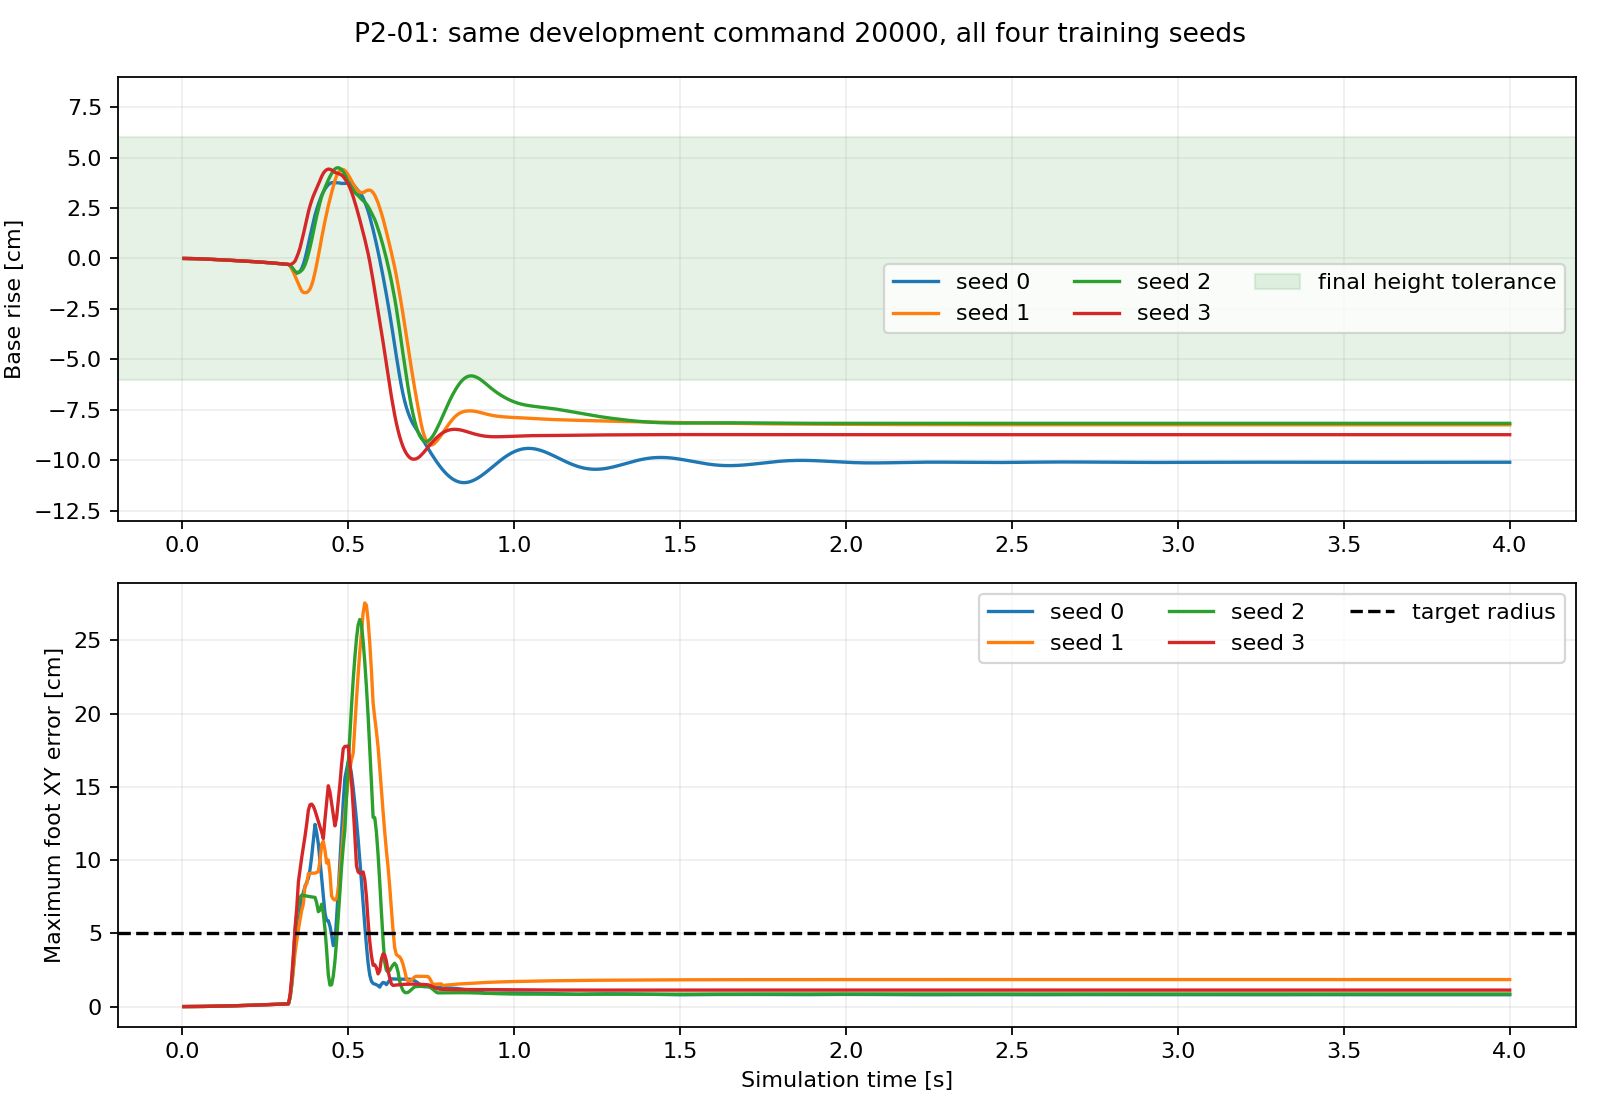
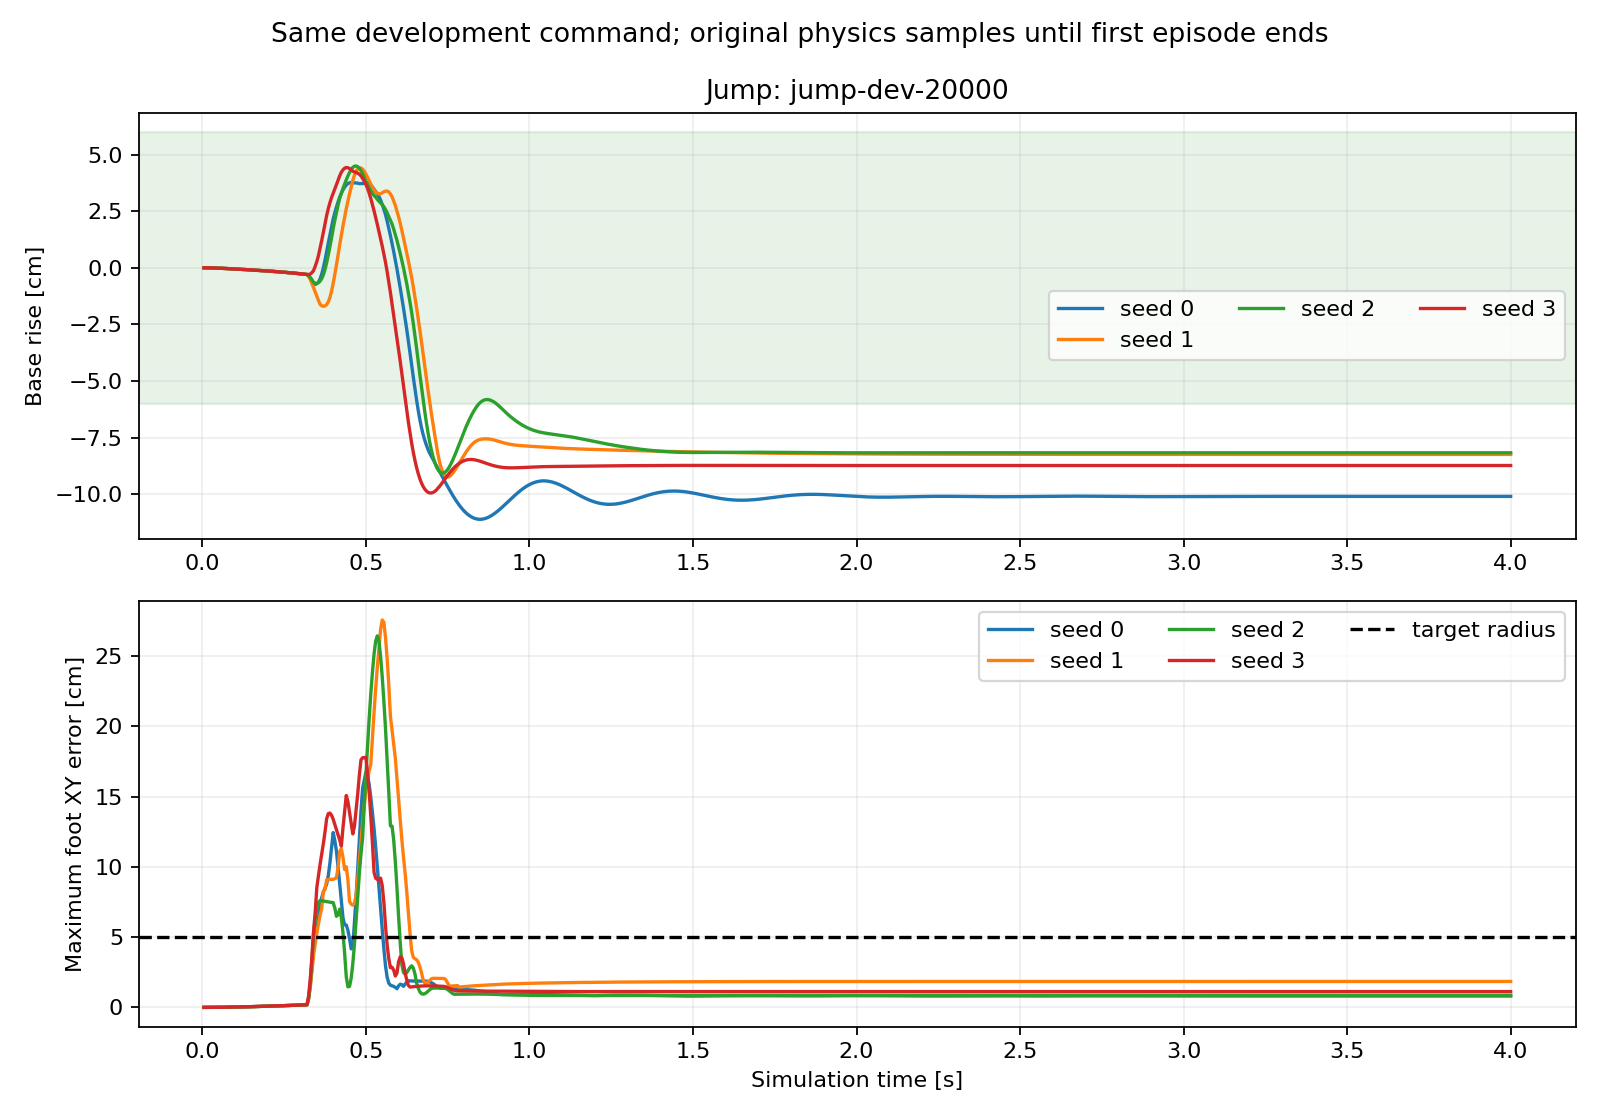
Compare jump conditions with first-episode height diagnostics

diff --git a/scripts/experiment_report.py b/scripts/experiment_report.py
@@ -17,7 +17,7 @@ def summarize(entry):
  assert metrics[-1]['iteration']==entry.get('updates',800)
  with np.load(ev/'motion-trace.npz') as trace:
   keys=['valid','stage','phase','foot_pos']
-  if meta['config'].get('jump'):keys+=['force','time']
+  if meta['config'].get('jump'):keys+=['force','time','root_z']
   a={key:trace[key] for key in keys}
  count=r['episodes'];last=[np.flatnonzero(a['valid'][:,i])[-1] for i in range(count)]
  terminal=Counter((int(a['stage'][t,i]),int(a['phase'][t,i])) for i,t in enumerate(last))
@@ -36,6 +36,9 @@ def summarize(entry):
   first=jump_first_touches(a,meta['nominal_foot_xy_m'],sc['episodes'],meta['config']['jump']['landing_radius_m'])
   row['first_touch_all_within']=sum(x['all_within'] for x in first)
   row['first_touch_samples']=first
+  terminal_rise=np.array([a['root_z'][t,i] for i,t in enumerate(last)])-meta['stance_calibration']['root_state'][2]
+  row['mean_terminal_base_rise_m']=float(terminal_rise.mean())
+  row['terminal_height_outside_tolerance']=int((np.abs(terminal_rise)>meta['config']['jump']['final_height_error_max_m']).sum())
   row['apex_command_met']=sum(x['valid_flight'] and x['flight_apex_rise_m']>=x['required_apex_m'] for x in r['results'])
   row['terminal_stable_steps_histogram']=dict(sorted(Counter(str(x['final_stable_steps']) for x in r['results']).items()))
   row['first_touch_definition']='First >5N foot force at 200Hz after valid-flight stage, foot body-center XY; supplemental metric, not the original success gate.'
@@ -82,9 +85,9 @@ def main():
  '| 발 | 조건 | seed | 안정화 성공 | 필요 착지 완료 | 낙상 | 시간초과 | ≥20ms 전 발 무접촉 |','|---|---|---:|---:|---:|---:|---:|---:|---:|']
  for x in rows:lines.append(f"| {x['foot']} | {x['condition']} | {x['seed']} | {x['successes']}/{x['episodes']} | {x['placed']}/{x['episodes']} | {x['failures']}/{x['episodes']} | {x['timeouts']}/{x['episodes']} | {x['flight_episodes']}/{x['episodes']} |")
  if any('valid_flights' in x for x in rows):
-  lines+=['','## 도약 계약 지표','','| seed | 유효 비행 | 비행 후 재접촉 | 최종 안정화 | 비발 접촉 종료 | 평균 비행 apex 상승 | 높이 명령 충족 | 네 발 첫 접촉 반경 내 |','|---:|---:|---:|---:|---:|---:|---:|---:|']
+  lines+=['','## 도약 계약 지표','','| 조건 | seed | 유효 비행 | 비행 후 재접촉 | 최종 안정화 | 비발 접촉 종료 | 평균 비행 apex 상승 | 높이 명령 충족 | 네 발 첫 접촉 반경 내 | 최종 높이 범위 밖 |','|---|---:|---:|---:|---:|---:|---:|---:|---:|---:|']
   for x in rows:
-   if 'valid_flights' in x:lines.append(f"| {x['seed']} | {x['valid_flights']}/{x['episodes']} | {x['landed_episodes']}/{x['episodes']} | {x['successes']}/{x['episodes']} | {x['nonfoot_collisions']} | {100*x['mean_flight_apex_rise_m']:.2f} cm | {x['apex_command_met']}/{x['episodes']} | {x['first_touch_all_within']}/{x['episodes']} |")
+   if 'valid_flights' in x:lines.append(f"| {x['condition']} | {x['seed']} | {x['valid_flights']}/{x['episodes']} | {x['landed_episodes']}/{x['episodes']} | {x['successes']}/{x['episodes']} | {x['nonfoot_collisions']} | {100*x['mean_flight_apex_rise_m']:.2f} cm | {x['apex_command_met']}/{x['episodes']} | {x['first_touch_all_within']}/{x['episodes']} | {x['terminal_height_outside_tolerance']}/{x['episodes']} |")
  if any('by_foot' in x for x in rows):
   lines+=['','## 공유 정책의 발별 평가','','| 조건 | seed | 이동 발 | 안정화 | 착지 | ≥20ms 전 발 무접촉 |','|---|---:|---|---:|---:|---:|']
   for x in rows:

diff --git a/scripts/jump_trace_report.py b/scripts/jump_trace_report.py
@@ -1,0 +1,39 @@
+"""Compare the same first development command across explicitly listed jump runs."""
+import argparse,json
+from pathlib import Path
+import numpy as np
+import matplotlib
+matplotlib.use('Agg')
+import matplotlib.pyplot as plt
+ROOT=Path(__file__).resolve().parents[1]
+
+def main():
+ parser=argparse.ArgumentParser(description=__doc__);parser.add_argument('spec',type=Path);args=parser.parse_args()
+ spec=json.loads(args.spec.read_text());conditions=list(dict.fromkeys(r['condition'] for r in spec['runs']))
+ fig,axes=plt.subplots(2,len(conditions),figsize=(10*len(conditions),7),squeeze=False);details=[];scenario=None
+ for entry in spec['runs']:
+  p=ROOT/'artifacts'/(entry['run']+'__final-evaluation');m=json.loads((p/'run.json').read_text());r=json.loads((p/'evaluation.json').read_text());manifest=json.loads((p/'scenarios.json').read_text())
+  assert m['status']=='SUCCEEDED' and m['config'].get('jump')
+  assert [x['scenario_id'] for x in r['results']]==[x['id'] for x in manifest['episodes']]
+  if scenario is None:scenario=manifest['episodes'][0]
+  else:assert scenario==manifest['episodes'][0],'Representative command differs'
+  z0=m['stance_calibration']['root_state'][2];ci=conditions.index(entry['condition'])
+  with np.load(p/'motion-trace.npz') as a:
+   z=a['root_z']-z0;t=a['time'];pos=a['foot_pos'];valid=a['valid'];target=np.array(m['nominal_foot_xy_m'])+np.array(scenario['foot_offsets_xy_m'])
+   mask=valid[:,0];err=np.linalg.norm(pos[:,0,:,:2]-target,axis=-1)
+   axes[0,ci].plot(t[mask],z[mask,0]*100,label=f"seed {entry['seed']}")
+   axes[1,ci].plot(t[mask],err[mask].max(axis=1)*100,label=f"seed {entry['seed']}")
+   last=[np.flatnonzero(valid[:,i])[-1] for i in range(valid.shape[1])]
+   terminal=np.array([z[k,i] for i,k in enumerate(last)])
+   details.append({'run':entry['run'],'condition':entry['condition'],'seed':entry['seed'],'mean_terminal_base_rise_m':float(terminal.mean()),'terminal_height_outside_tolerance':int((np.abs(terminal)>m['config']['jump']['final_height_error_max_m']).sum())})
+  axes[0,ci].set_title(f"{entry['condition']}: {scenario['id']}")
+  axes[0,ci].axhspan(-100*m['config']['jump']['final_height_error_max_m'],100*m['config']['jump']['final_height_error_max_m'],color='green',alpha=.025)
+ for ci in range(len(conditions)):
+  axes[0,ci].set_ylabel('Base rise [cm]')
+  axes[1,ci].axhline(100*m['config']['jump']['landing_radius_m'],color='black',ls='--',label='target radius')
+  axes[1,ci].set_ylabel('Maximum foot XY error [cm]');axes[1,ci].set_xlabel('Simulation time [s]')
+  for ax in axes[:,ci]:ax.grid(alpha=.2);ax.legend(ncol=3)
+ fig.suptitle('Same development command; original physics samples until first episode ends')
+ fig.tight_layout();stem=spec['report'];fig.savefig(ROOT/f'docs/figures/{stem}-jump-trace.png',dpi=160);plt.close(fig)
+ (ROOT/f'docs/{stem}-height-diagnosis.json').write_text(json.dumps(details,indent=2)+'\n');print(json.dumps(details))
+if __name__=='__main__':main()

diff --git a/scripts/p2_01_trace_report.py b/scripts/p2_01_trace_report.py
@@ -1,16 +1,5 @@
-import json,numpy as np,matplotlib
-matplotlib.use('Agg')
-import matplotlib.pyplot as plt
-from pathlib import Path
-fig,axes=plt.subplots(2,1,figsize=(10,7));details=[]
-for seed in range(4):
- p=Path(f'artifacts/p2-01-jump-seed{seed}__final-evaluation');m=json.loads((p/'run.json').read_text());r=json.loads((p/'evaluation.json').read_text());z0=m['stance_calibration']['root_state'][2]
- with np.load(p/'motion-trace.npz') as a:
-  z=a['root_z']-z0; t=a['time'];pos=a['foot_pos'];valid=a['valid'];nom=np.array(m['nominal_foot_xy_m']);err=np.linalg.norm(pos[:,:,:,:2]-nom,axis=-1)
-  axes[0].plot(t,z[:,0]*100,label=f'seed {seed}');axes[1].plot(t,err[:,0].max(axis=1)*100,label=f'seed {seed}')
-  details.append({'seed':seed,'mean_terminal_base_rise_m':float(z[-1].mean()),'terminal_height_outside_6cm':int((np.abs(z[-1])>.06).sum())})
-axes[0].axhspan(-6,6,color='green',alpha=.1,label='final height tolerance');axes[0].set_ylabel('Base rise [cm]');axes[0].set_ylim(-13,9)
-axes[1].axhline(5,color='black',ls='--',label='target radius');axes[1].set_ylabel('Maximum foot XY error [cm]');axes[1].set_xlabel('Simulation time [s]')
-for ax in axes:ax.grid(alpha=.2);ax.legend(ncol=3)
-fig.suptitle('P2-01: same development command 20000, all four training seeds');fig.tight_layout();fig.savefig('docs/figures/p2-01-jump-trace.png',dpi=160)
-Path('docs/p2-01-height-diagnosis.json').write_text(json.dumps(details,indent=2)+'\n');print(details)
+"""Compatibility entry point for the original P2-01 trace report."""
+import sys
+from jump_trace_report import main
+if __name__=='__main__':
+ sys.argv=[sys.argv[0],'configs/reports/p2-01.json'];main()

diff --git a/docs/p0-status.md b/docs/p0-status.md
@@ -189,3 +189,9 @@ P2-02 구현 및 검증 완료, 본 학습4개 실행 중. 새task a1_flat_jump_
 본4run artifacts/p2-02-shaped-seed{0,1,2,3}, GPU index=seed. 각1024×24×1600updates=39,321,600step,총157,286,400신규. 현재shell tool session42486/7314/10665/2176;4run RUNNING 실제update7–12확인. 실행commit d720f20. supervisor1800초,최종64평가자동영상/진단180초. 기다리는 동안실제메트릭/프로세스확인하며중복실행하지말것.
 
 다음행동: 종료/자동평가/자원회수 후8run감사, configs/reports/p2-02.json로보고서생성. 명세는P2-01의4seed를재사용A로포함하고새4seed를B로비교(총314,572,800step,신규절반). 첫접촉/요구높이충족/최종높이를별도확인. 기존P2-01영상/원본config는변경하지않고catalog override에P2-02대조군태그추가. API runs/videos200확인. 보조지표는사후진단이며시험군주장안함. 모델승격없음. goal active 유지,사용자중단전까지연구계속.
+
+### P2-02 실행 중 보고서 보완
+
+실제 GPU worker PID666799/666892/666997/667095를 확인했다. 4run은 update238–242까지 진행 중이며 종료 episode의 apex 명령 충족은 증가했지만 성공은 아직0. 이것은 중간 학습 통계이며 최종 평가 결과가 아니다. 기존 session42486/7314/10665/2176을 유지하고 새 실행을 만들지 않는다.
+
+scripts/experiment_report.py의 jump 표에 조건명(A/B)과 마지막 유효 표본의 높이 범위 위반 수를 추가했다. docs/p2-01 결과를 다시 생성해 기존 높이 진단 수치와 일치 확인. scripts/jump_trace_report.py configs/reports/p2-02.json은 평가 완료 후 조건별 동일 대표 명령의 높이/발오차 궤적을 생성한다. 각episode의 valid 마지막 표본을 사용하므로 성공 조기 종료·auto-reset 데이터가 최종높이에 섞이지 않는다. 기존 p2_01_trace_report.py는 호환 실행기로 유지한다. P2-02 종료 후 report와 trace report를 모두 실행할 것.
